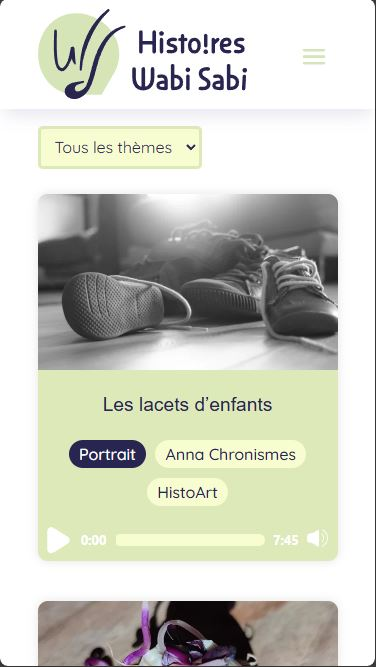
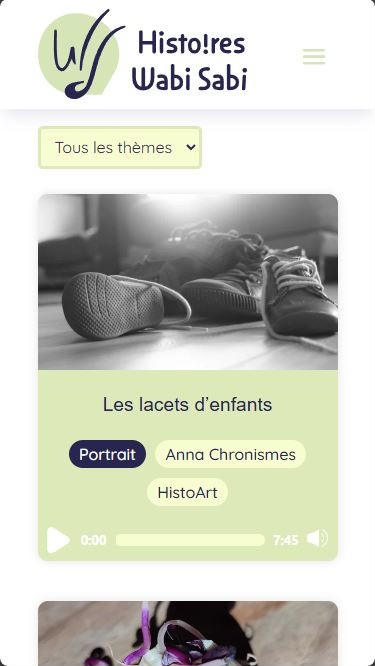
adjust min-heights / arrows + img quality

diff --git a/style.css b/style.css
@@ -223,7 +223,7 @@ h2 {
   position: relative;
   width: 100%;
   height: 95vh;
-  min-height: 300px;
+  min-height: 500px;
   display: flex;
   flex-direction: column;
   justify-content: center;
@@ -403,6 +403,7 @@ h2 {
   font-size: var(--text-font-size);
   font-family: var(--font-family2);
   text-align: justify;
+  text-justify: inter-word;
   line-height: calc(var(--project-text-font-size)*1.3);
 }
 
@@ -720,7 +721,7 @@ textarea.floating-input {
   width: 100%;
   height: 100vh;
   max-height: 100vh;
-  min-height: 650px;
+  min-height: 750px;
   display: flex;
   flex-direction: column;
   justify-content: center;
@@ -1153,6 +1154,7 @@ input[type=radio] {
 
 .project-legend-container p {
   text-align: justify;
+  text-justify: inter-word;
 }
 
 .project-legend-container a, .project-legend-container strong {
@@ -1257,12 +1259,12 @@ a.button:hover:after {
   
   .car-left-arrow {
     animation: left-arrow-slide 2.7s ease-in-out infinite;
-    left: var(--margin-s);
+    left: var(--margin-xs);
   }
   
   .car-right-arrow {
     animation: right-arrow-slide 2.7s ease-in-out infinite;
-    right: var(--margin-s);
+    right: var(--margin-xs);
   }
   
   .card{
